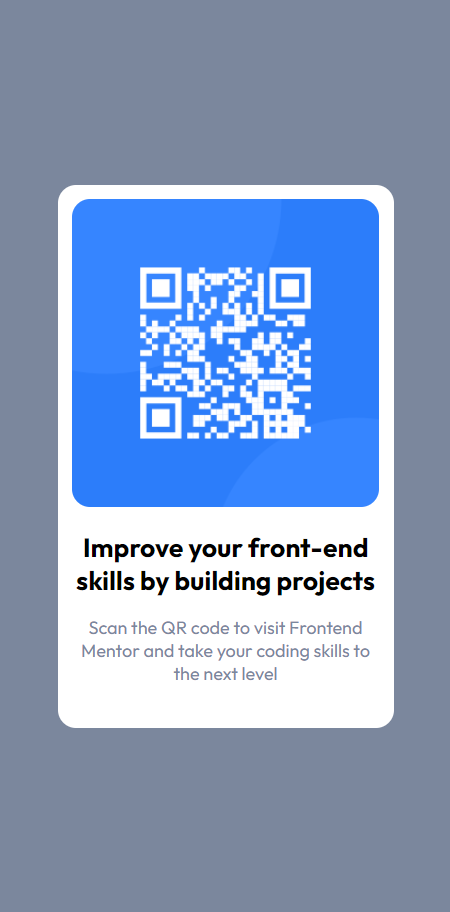
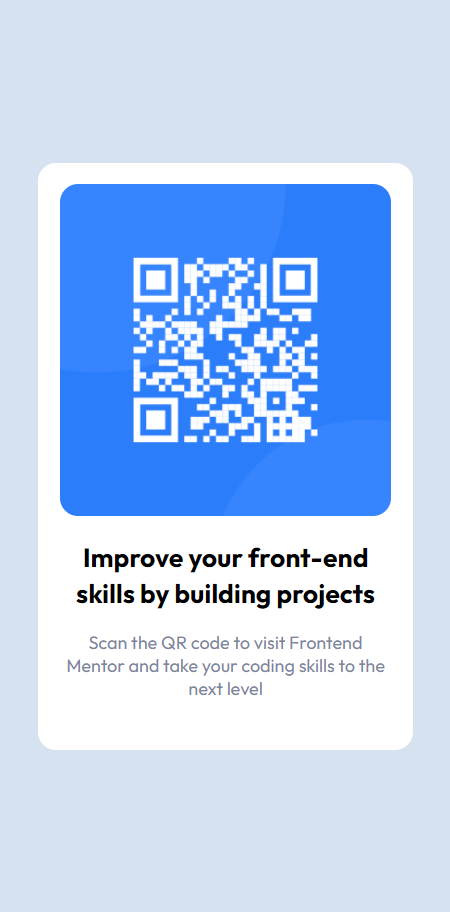
fixed readme and tweaked styling

diff --git a/style.css b/style.css
@@ -12,16 +12,16 @@ body {
     display: flex;
     align-items: center;
     justify-content: center;
-    background-color: var(--grayish-blue);
+    background-color: var(--light-gray);
     text-align: center;
     font-family: 'Outfit';
 }
 
 #card {
     background-color: var(--white);
-    width: 280px;
+    width: 312px;
     border-radius: 15px;
-    padding: 12px;
+    padding: 18px;
     display: flex;
     flex-direction: column;
     align-items: center;
@@ -40,6 +40,7 @@ body {
 #title p {
     font-size: 22px;
     font-weight: 700;
+    line-height: 30px;
 }
 
 #subtitle p {
